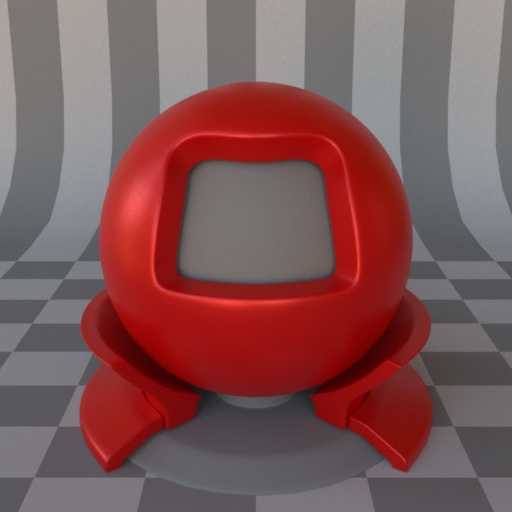
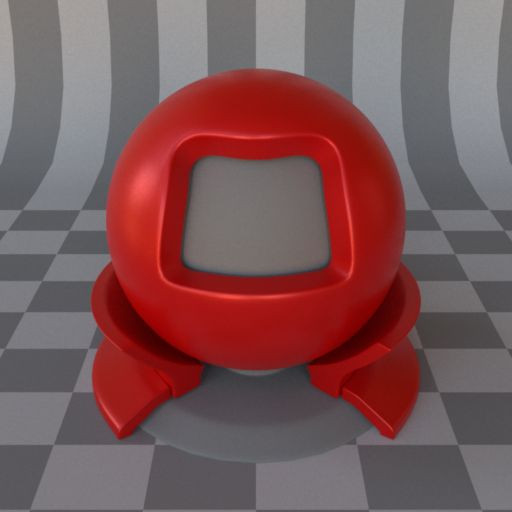
測色データを逆補正するスクリプトを追加(test3)

diff --git a/BRDF-Fitting_OptColor.py b/BRDF-Fitting_OptColor.py
@@ -164,13 +164,13 @@ def material_preview(opt_bsdf, scene_params):
         elif 'specular' in key:
             scene_params["bsdf-matpreview.specular"] = opt_bsdf[key]
         elif 'base_color' in key:
-            scene_params["bsdf-matpreview.base_color.value"] = opt_bsdf[key]
+            scene_params["bsdf-matpreview.base_color.value"] = [0.0, 0.02518685962736163, 0.4178850708481375]
         #else:
             #mtParams["bsdf-matpreview." + key] = opt_bsdf[key]
         
     scene_params.update()
     material_image = mi.render(scene,scene_params,spp = 516)
-    print(type(material_image))
+    print(scene_params)
     mi.util.convert_to_bitmap(material_image)
     
     # matplotlibの設定と画像表示
@@ -207,7 +207,7 @@ def optimize(targetBRDF, measures, scene_params, steps, keys, lr = 0.001):
         
         penalty = 0
         for key in keys:
-            penalty += dr.sqr(opt[key] - 0.35)
+            penalty += dr.sqr(opt[key] - 0.3)
         loss = loss + penalty
         #print(loss)
         #lossf = dr.sum(loss)[0] / len(loss)
@@ -263,7 +263,7 @@ scene_params = mi.traverse(scene)
 s = Samples(sample_data)
 
 base_color_flag = True
-optimize(bsdf, s, scene_params,2000,keys)
+optimize(bsdf, s, scene_params,3000,keys)
 
 #画像と参照画像との間の平均二乗誤差を計算する関数
 def mse_image(image, image_ref):
@@ -314,5 +314,5 @@ def optimize_bc(scene_params, steps, lr = 0.01):
     
     mi.util.write_bitmap("Fitting_Results_another/" + file_name + ".png", image_final)
     
-optimize_bc(scene_params, 70)
+#optimize_bc(scene_params, 120)
 

diff --git a/test3.py b/test3.py
@@ -1,0 +1,42 @@
+def get_rgb_value(file_path, name):
+    # テキストファイルを開いて読み込む
+    with open(file_path, 'r') as file:
+        for line in file:
+            # 各行を":"で分割して名前とRGB値を取得
+            key, value = line.strip().split(':')
+            print(key)
+            # 指定された名前が見つかった場合、RGB値を返す
+            if key == name:
+                # RGB値をカンマで分割してタプルとして返す
+                return tuple(map(int, value.split(',')))
+    # 指定された名前が見つからない場合、Noneを返す
+    return None
+
+# ファイルパスと名前を指定
+file_path = 'sample_rgb_data.txt'  # テキストファイルのパスを指定
+name = input("名前を入力してください (例: C1): ")
+
+# RGB値を取得
+rgb_value = get_rgb_value(file_path, name)
+#print(key)
+
+if rgb_value:
+    print(f"{name} のRGB値: {rgb_value}")
+else:
+    print(f"{name} に対応するRGB値が見つかりませんでした。")
+
+
+def inverse_gamma_correction(value):
+    """Apply inverse gamma correction to a normalized value (0-1 range)."""
+    if value <= 0.04045:
+        return value / 12.92
+    else:
+        return ((value + 0.055) / 1.055) ** 2.4
+
+# RGB values in the range 0-255
+#rgb = (144,41,6)
+
+# Normalize and apply inverse gamma correction
+linear_rgb = [inverse_gamma_correction(c / 255.0) for c in rgb_value]
+
+print(linear_rgb)

diff --git a/image_generator.py b/image_generator.py
@@ -5,6 +5,8 @@ import numpy as np
 height = 512
 width = 512
 blank = np.zeros((height, width, 3))
-blank += [158,2,6][::-1] #RGBで青指定
+blank += [144,41,6][::-1] #RGBで青指定
+
+file_name = input('file name : ')
  
-cv2.imwrite('basecolor_ref_another/C3_Red_ref.png',blank)
+cv2.imwrite('basecolor_ref_another/' + file_name + '_ref.png',blank)
